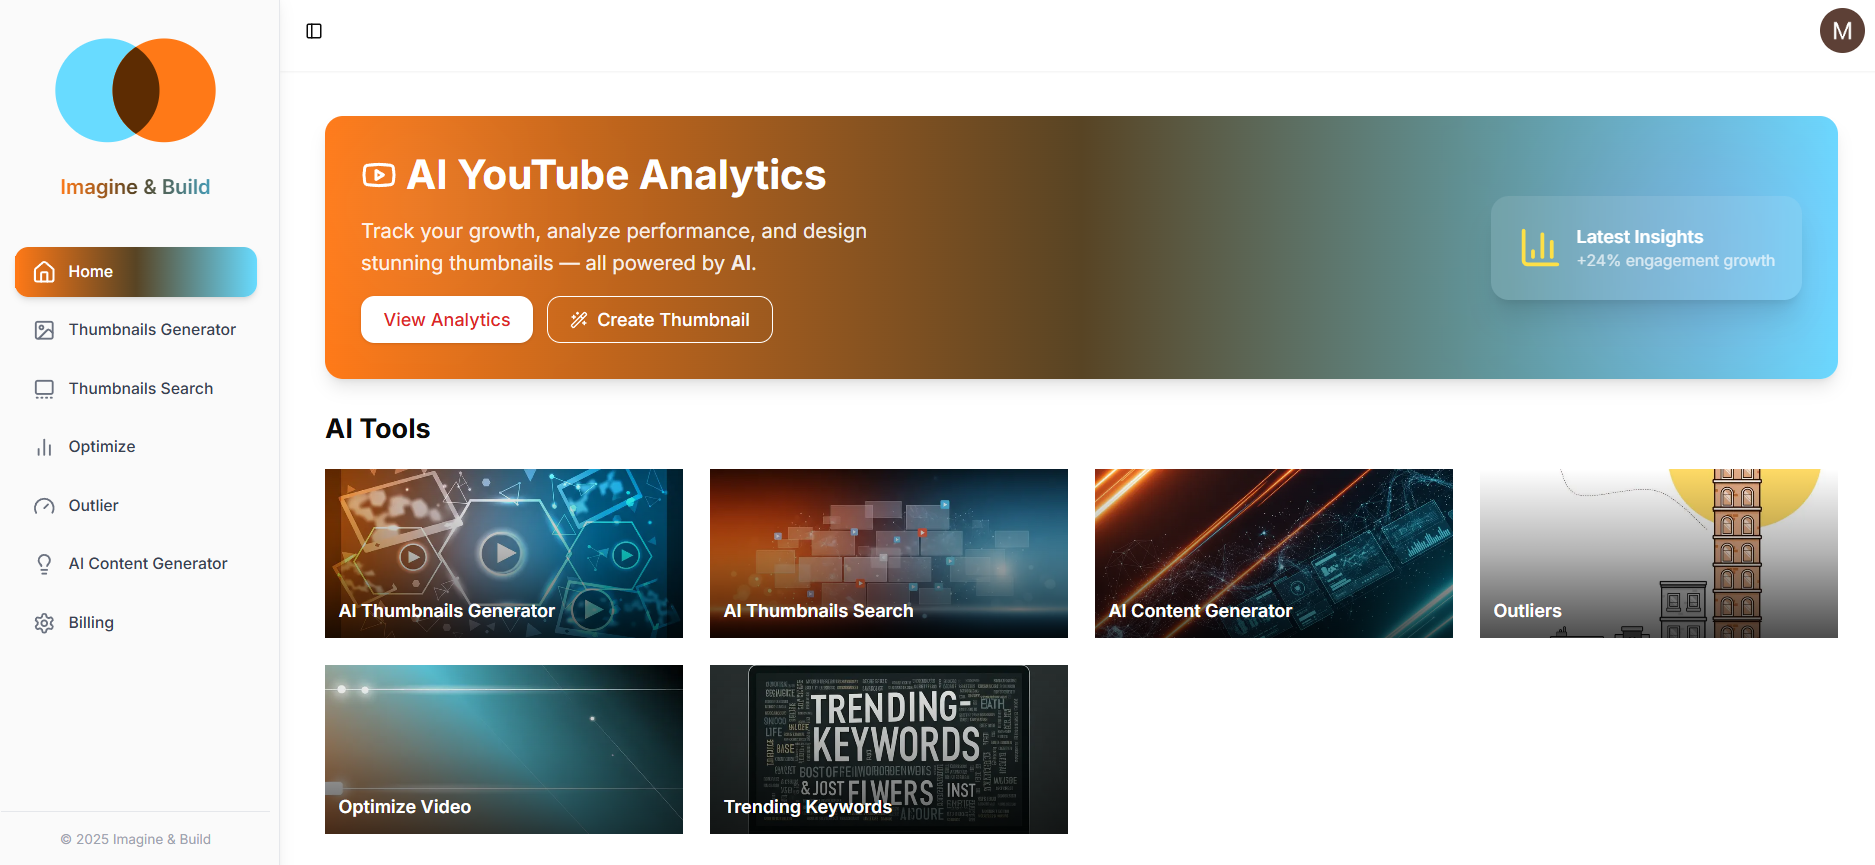
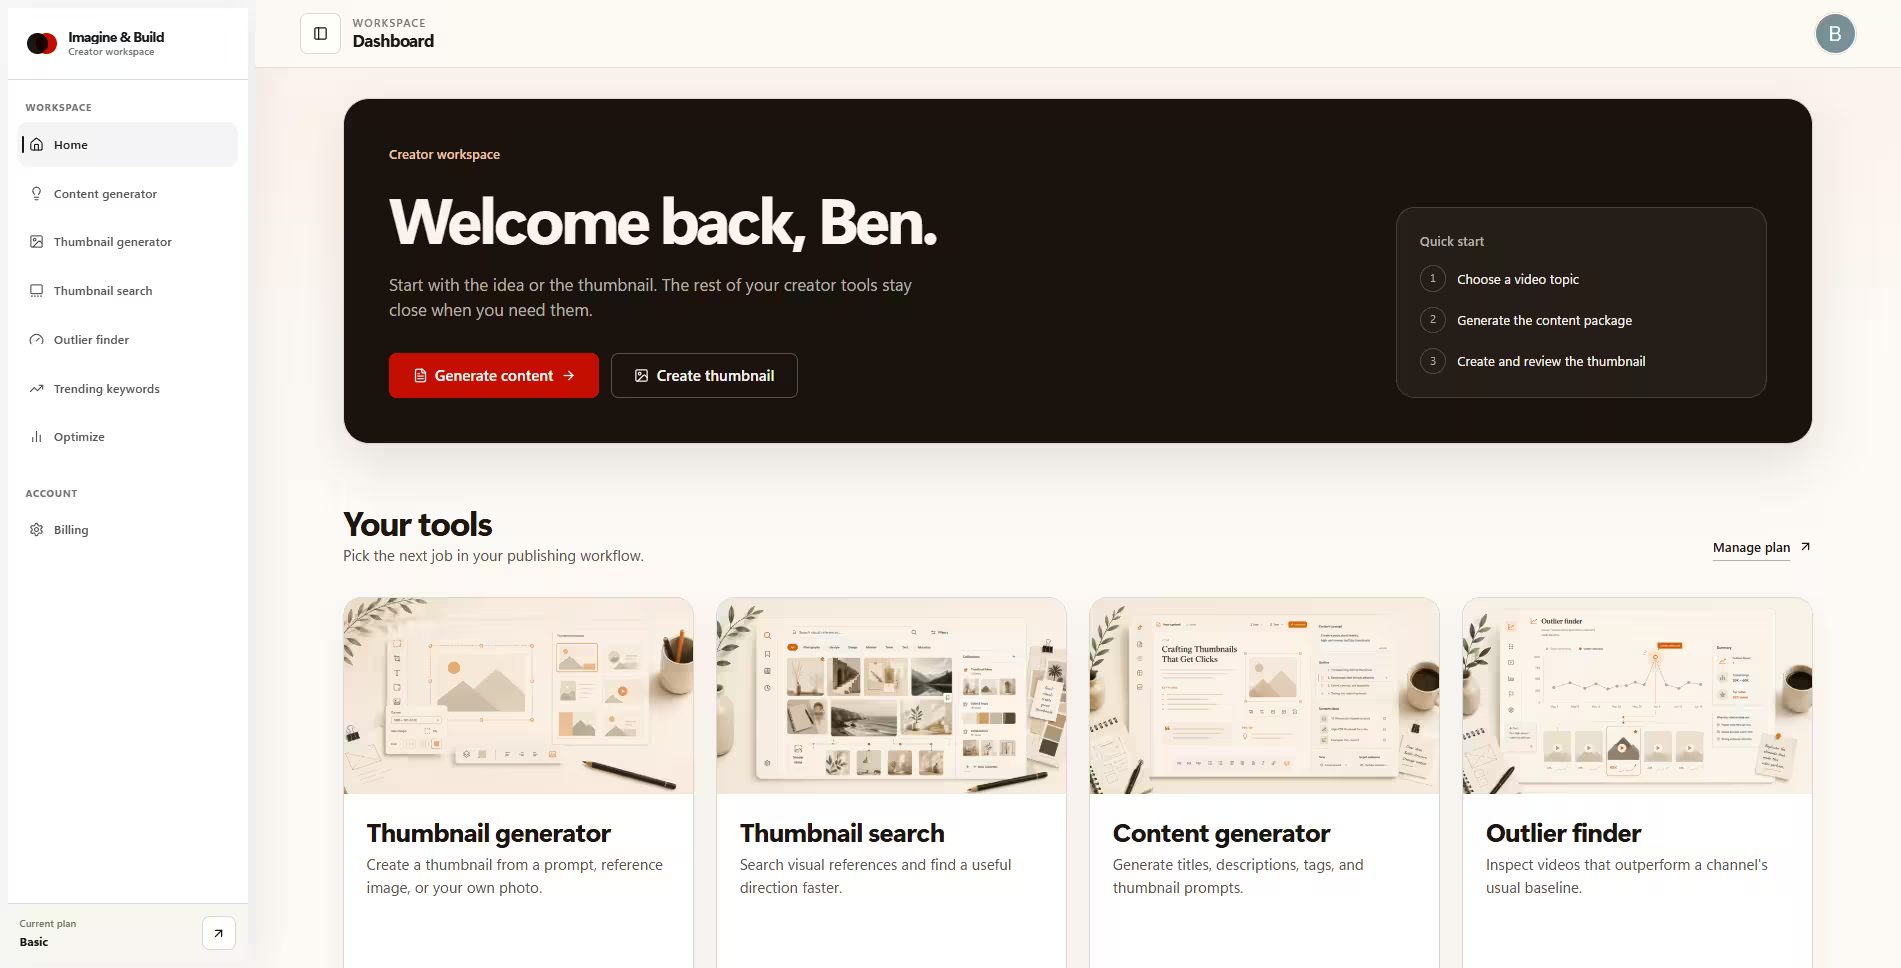
Refactor code structure for improved readability and maintainability

diff --git a/app/globals.css b/app/globals.css
@@ -203,13 +203,21 @@ body {
 
 .home-brand {
   display: inline-flex;
+  min-width: 0;
   min-height: 44px;
+  flex: 1 1 auto;
   align-items: center;
   gap: var(--space-sm);
   white-space: nowrap;
   font-family: var(--font-display);
   font-weight: 700;
   letter-spacing: -0.025em;
+}
+
+.home-brand > span:last-child {
+  min-width: 0;
+  overflow: hidden;
+  text-overflow: ellipsis;
 }
 
 .home-brand__mark {
@@ -267,6 +275,7 @@ body {
   display: grid;
   width: 44px;
   height: 44px;
+  flex: 0 0 44px;
   place-items: center;
   border: var(--rule-hair) solid var(--color-rule);
   border-radius: var(--radius-sm);
@@ -351,7 +360,7 @@ body {
 }
 
 .home-hero {
-  padding-block: var(--space-3xl) var(--space-4xl);
+  padding-block: var(--space-3xl) var(--space-5xl);
 }
 
 .home-hero__grid {
@@ -362,13 +371,14 @@ body {
 }
 
 .home-hero__copy {
-  max-width: 42rem;
+  max-width: 43rem;
 }
 
 .home-kicker,
 .home-step-label {
   display: flex;
   align-items: center;
+  flex-wrap: wrap;
   gap: var(--space-xs);
   margin-bottom: var(--space-lg) !important;
   color: var(--color-accent);
@@ -383,7 +393,7 @@ body {
 }
 
 .home-hero h1 {
-  max-width: 13ch;
+  max-width: 11ch;
   font-size: var(--text-display);
   font-weight: 700;
   line-height: 0.98;
@@ -415,7 +425,12 @@ body {
   overflow: hidden;
   border: var(--rule-hair) solid var(--color-rule);
   border-radius: var(--radius-lg);
-  background: var(--color-paper-strong);
+  background:
+    linear-gradient(
+      180deg,
+      color-mix(in oklch, var(--color-paper-strong) 86%, var(--color-accent-soft)),
+      var(--color-paper-strong)
+    );
   box-shadow: 0 24px 70px color-mix(in oklch, var(--color-ink) 10%, transparent);
   transition:
     transform var(--dur-medium) var(--ease-out),
@@ -425,7 +440,10 @@ body {
 .home-product-shot img {
   display: block;
   width: 100%;
+  aspect-ratio: 2.14 / 1;
   height: auto;
+  object-fit: cover;
+  object-position: top left;
 }
 
 .home-product-shot figcaption {
@@ -735,6 +753,10 @@ body {
 }
 
 @media (min-width: 60rem) {
+  .home-brand {
+    flex: 0 0 auto;
+  }
+
   .home-nav,
   .home-header__actions {
     display: flex;
@@ -748,7 +770,7 @@ body {
   }
 
   .home-hero__grid {
-    grid-template-columns: minmax(0, 0.82fr) minmax(0, 1.18fr);
+    grid-template-columns: minmax(0, 0.78fr) minmax(0, 1.22fr);
     gap: var(--space-2xl);
   }
 
@@ -800,6 +822,95 @@ body {
 
   .home-footer__meta > p {
     grid-column: auto;
+  }
+}
+
+@media (max-width: 39.98rem) {
+  .home-shell,
+  .home-mobile-menu {
+    width: min(100% - 2rem, 78rem);
+  }
+
+  .home-header {
+    padding-top: var(--space-xs);
+  }
+
+  .home-header__inner {
+    min-height: 3.5rem;
+    border-radius: var(--radius-lg);
+  }
+
+  .home-hero {
+    padding-block: var(--space-2xl) var(--space-3xl);
+  }
+
+  .home-hero h1,
+  .home-section__head h2,
+  .home-tools__intro h2,
+  .home-pricing__copy h2 {
+    max-width: 100%;
+    font-size: 3rem;
+    letter-spacing: -0.032em;
+  }
+
+  .home-hero__lede,
+  .home-section__head > p,
+  .home-tools__intro > p:last-child,
+  .home-pricing__copy > p {
+    font-size: var(--text-base);
+  }
+
+  .home-hero__actions {
+    gap: var(--space-sm);
+  }
+
+  .home-section {
+    padding-block: var(--space-3xl);
+  }
+
+  .home-workflow {
+    gap: var(--space-3xl);
+  }
+
+  .home-product-shot {
+    border-radius: var(--radius-md);
+    box-shadow: 0 16px 42px color-mix(in oklch, var(--color-ink) 8%, transparent);
+  }
+
+  .home-tool-row {
+    grid-template-columns: minmax(0, 1fr);
+    gap: var(--space-xs);
+  }
+
+  .home-tool-row > svg:last-child {
+    display: none;
+  }
+
+  .home-price-card {
+    padding: var(--space-lg);
+  }
+
+  .home-footer__statement {
+    font-size: 3rem;
+  }
+}
+
+@media (max-width: 22.5rem) {
+  .home-hero h1,
+  .home-section__head h2,
+  .home-tools__intro h2,
+  .home-pricing__copy h2,
+  .home-footer__statement {
+    font-size: 2.55rem;
+  }
+
+  .home-hero__actions {
+    align-items: stretch;
+    flex-direction: column;
+  }
+
+  .home-text-link {
+    min-height: 44px;
   }
 }
 

diff --git a/app/_components/HomePage.tsx b/app/_components/HomePage.tsx
@@ -23,7 +23,7 @@ const workflow = [
     title: "Turn one topic into a complete video brief.",
     description:
       "Generate title options, descriptions, tags, thumbnail prompts, and a ready-to-use visual direction from a single idea.",
-    image: "/AiContentGenerator.png",
+    image: "/AiContentGenerator.v2.png",
     alt: "AI content generator showing generated tags, a thumbnail, and thumbnail prompts",
   },
   {
@@ -31,7 +31,7 @@ const workflow = [
     title: "Build the thumbnail without leaving your workflow.",
     description:
       "Start from a prompt, add a reference image or your own photo, then keep every generated option together for review.",
-    image: "/AiThumbnailGenrator.png",
+    image: "/AiThumbnailGenrator.v2.png",
     alt: "AI thumbnail generator with prompt controls and a generated thumbnail",
   },
   {
@@ -229,7 +229,7 @@ function Hero() {
             <Sparkles aria-hidden="true" />
             A practical AI workspace for YouTube
           </p>
-          <h1>From video idea to publish-ready package.</h1>
+          <h1>Create the next video faster.</h1>
           <p className="home-hero__lede">
             Plan the content, generate the copy, shape the thumbnail, and study
             what is already working without stitching together five different tools.
@@ -248,8 +248,8 @@ function Hero() {
           <Image
             src="/Dashboard.png"
             alt="Imagine and Build dashboard with YouTube creator tools"
-            width={1875}
-            height={865}
+            width={1901}
+            height={968}
             priority
             sizes="(min-width: 960px) 58vw, 100vw"
           />
@@ -382,7 +382,7 @@ function Footer() {
               GitHub
             </a>
           </div>
-          <p>© {new Date().getFullYear()} Imagine &amp; Build</p>
+          <p>&copy; {new Date().getFullYear()} Imagine &amp; Build</p>
         </div>
       </div>
     </footer>

diff --git a/README.md b/README.md
@@ -1,29 +1,30 @@
-# YouTube Content Generator
+# Imagine & Build
 
-An AI-powered web application that helps YouTube creators generate optimized content ideas, titles, descriptions, tags, and thumbnails. Built with modern web technologies, it leverages AI models for content creation and image generation to supercharge channel growth.
+An AI-powered creator workspace for planning YouTube videos, generating titles and descriptions, creating thumbnails, researching visual references, and finding trend signals from one focused dashboard.
 
 ## Description
 
-This project is a full-stack Next.js application designed to assist YouTube creators in producing high-quality, SEO-optimized content. Users can input video ideas or topics, and the AI generates:
+This project is a full-stack Next.js application designed to help YouTube creators move from an idea to a publish-ready package. Users can input video ideas or topics, and the AI generates:
+
 - SEO-optimized titles with scores
 - Engaging descriptions
 - Relevant tags
 - Thumbnail prompts and AI-generated thumbnails
 
-The app includes user authentication, a dashboard, billing integration, and background processing for AI tasks. It uses serverless functions for efficient AI workflows and integrates with cloud services for image handling.
+The app includes Clerk authentication, a warm studio dashboard UI, billing-plan previews, YouTube research tools, and Inngest-powered background processing for AI tasks.
 
 ## Features
 
 - **AI Content Generator**: Input a topic to generate titles, descriptions, tags, and thumbnail prompts.
 - **AI Thumbnail Generator**: Generate custom thumbnails based on user input, reference images, or user photos.
-- **Dashboard**: Overview of features and welcome banner.
-- **Billing & Checkout**: Subscription plans with Stripe integration (via Clerk).
+- **Dashboard**: Warm studio workspace with quick access to every creator tool.
+- **Billing**: Basic access plus preview plan details for future paid checkout.
 - **Authentication**: Secure sign-in/sign-up using Clerk.
 - **Outlier Detection**: Analyze video performance outliers.
 - **Trending Keywords**: Rank trend signals inferred from the current YouTube
   popular-video chart by region and category, with source-video evidence.
 - **Thumbnail Search**: Search YouTube thumbnails by topic or visual similarity.
-- **Responsive Design**: Mobile-friendly UI with dark mode support.
+- **Responsive Design**: Mobile-friendly warm studio UI with shared design tokens.
 - **Background Processing**: Uses Inngest for asynchronous AI tasks like content and image generation.
 
 ## Tech Stack
@@ -43,15 +44,16 @@ The app includes user authentication, a dashboard, billing integration, and back
 - **Inngest**: Serverless event-driven workflows for background jobs (e.g., AI processing).
 
 ### AI & Integrations
-- **OpenRouter (OpenAI-compatible)**: For generating content (titles, descriptions, tags) using models like Mistral.
-- **Cloudflare AI Workers**: Image generation using Flux-1 model.
+- **Google Gemini**: Text generation for titles, descriptions, tags, and thumbnail prompts.
+- **OpenRouter (OpenAI-compatible)**: Optional vision-assisted thumbnail search phrase generation.
+- **Cloudflare AI Workers**: Image generation with a configurable Workers AI model and fallback.
 - **ImageKit**: Image upload, storage, and optimization.
 - **Replicate**: Optional AI model integration (e.g., Stable Diffusion for thumbnails).
 - **Axios**: For HTTP requests.
 
 ### Authentication & Others
 - **Clerk**: User authentication and management.
-- **Stripe**: Billing and subscriptions (integrated via Clerk).
+- **Billing Preview**: Plan comparison UI; paid checkout is not required for Basic access.
 - **Moment.js**: Date handling.
 - **Sharp**: Image processing (e.g., resizing thumbnails).
 
@@ -82,7 +84,7 @@ The app includes user authentication, a dashboard, billing integration, and back
    NEON_DB_CONNECTION_STRING=your-neon-db-url
    CLERK_SECRET_KEY=your-clerk-secret
    OPEN_ROUTER_API_KEY=your-openrouter-key
-   CLOUDFLARE_API_KEY=your-cloudflare-key
+   CLOUDFARE_API_KEY=your-cloudflare-key
    CLOUDFLARE_ACCOUNT_ID=your-cloudflare-account-id
    CLOUDFLARE_IMAGE_MODEL=@cf/black-forest-labs/flux-2-klein-4b (optional)
    IMAGEKIT_PUBLIC_KEY=your-imagekit-public
@@ -93,7 +95,12 @@ The app includes user authentication, a dashboard, billing integration, and back
    INNGEST_SIGNING_KEY=your-inngest-key
    INNGEST_SERVER_URL=https://api.inngest.com/v1/events
    GEMINI_API_KEY=your-gemini-key (optional)
+   GEMINI_TEXT_MODEL=gemini-3.5-flash (optional)
+   HUGGING_FACE_ACCESS_TOKEN=your-hugging-face-token (optional)
+   THUMBNAIL_VISION_MODEL=your-openrouter-vision-model (optional)
    ```
+
+   Note: `CLOUDFARE_API_KEY` matches the current environment variable used by the image-generation workflow.
 
 4. Set up the database:
    ```
@@ -139,7 +146,18 @@ The app includes user authentication, a dashboard, billing integration, and back
 4. **Generate Thumbnail**: Provide input, optional reference/user images, and generate AI thumbnails.
 5. **Research Trends**: Choose a region and category to inspect cached trend
    signals inferred from popular-video metadata. Scores are not search volume.
-6. **Billing**: Subscribe to premium plans for advanced features.
+6. **Billing**: Review the Basic plan and preview paid-plan details.
+
+## Design System
+
+The application uses the warm studio design system documented in `design.md`:
+
+- Warm off-white paper surfaces and dark ink typography.
+- One restrained burnt-orange accent for primary actions and active states.
+- Shared tokens in `tokens.css` for color, type, spacing, radius, duration, and easing.
+- Dashboard and tool pages follow a consistent header, panel, and results layout.
+
+When adding new UI, prefer existing tokens and shared classes in `app/globals.css` before introducing page-specific styles.
 
 ## Trending Keywords Data
 
@@ -163,27 +181,19 @@ npm test
 
 ## Screenshots
 
-### Home Page
-![Home Page](./public/HomePage.png)
-*Landing page with hero section and features overview.*
-
-### Dashboard
+### Dashboard Workspace
 ![Dashboard](./public/Dashboard.png)
-*User dashboard showing welcome banner and feature list.*
+*Creator dashboard and tool navigation.*
 
 ### AI Content Generator
-![AI Content Generator](./public/AiContentGenerator.png)
+![AI Content Generator](./public/AiContentGenerator.v2.png)
 *Interface for generating video titles, descriptions, tags, and thumbnails.*
 
 ### AI Thumbnail Generator
-![AI Thumbnail Generator](./public/AiThumbnailGenrator.png)
+![AI Thumbnail Generator](./public/AiThumbnailGenrator.v2.png)
 *Tool for creating custom thumbnails with AI, including upload previews and generated results.*
 
-### Billing Page
-![Billing Page](./public/Billing.png)
-*Subscription plans with features and pricing.*
 
-*(Note: Replace the screenshot paths with actual images from your project. You can add them to a `screenshots/` folder in the repo.)*
 
 ## Contributing
 